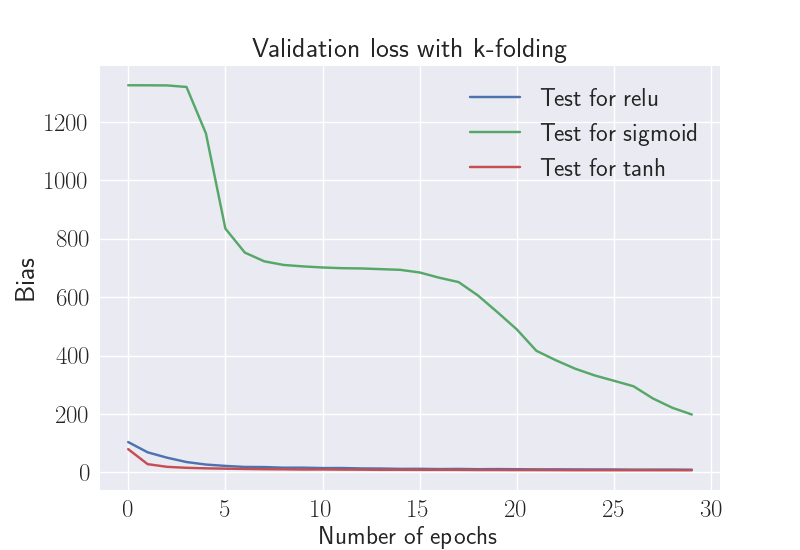
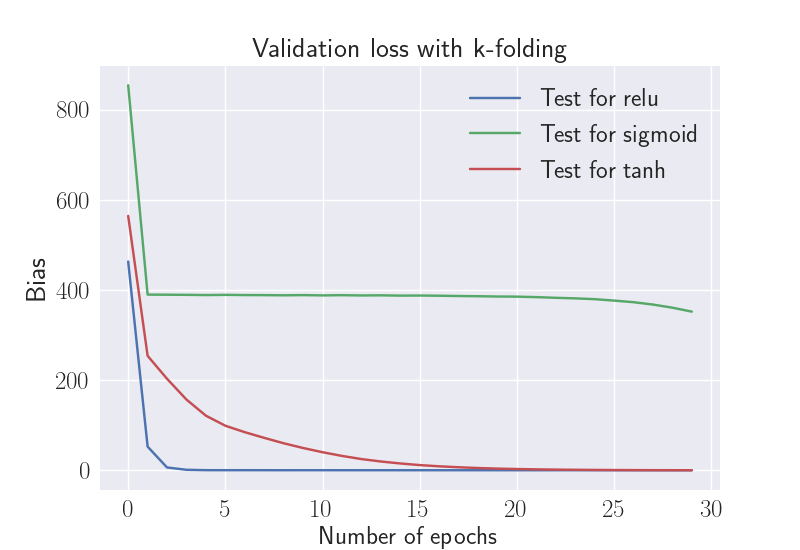
fixed r2-score

diff --git a/Project3/Code/NN_methods.py b/Project3/Code/NN_methods.py
@@ -47,7 +47,7 @@ class NeuralNetwork:
                 N_epochs, verbose=0,
                 validation_data=(self.X_test, self.y_test)
                 )
-        #print('Training completed')
+        print('Training completed')
 
         pred = model.predict(self.X_test)
         loss = fit_.history['loss'] # train loss
@@ -56,7 +56,6 @@ class NeuralNetwork:
         val_accuracy = fit_.history['val_accuracy'] # test accuracy
 
         return pred, np.array(loss), np.array(val_loss), np.array(accuracy), np.array(val_accuracy)
-        #loss, val_loss, accuracy, val_accuracy
 
 
     def kfold(self, inputsize, N_layers, N_neurons, N_epochs, N_folds, batch_size, eta, lmbd, act_func):
@@ -73,6 +72,7 @@ class NeuralNetwork:
         accuracy = []
         val_accuracy = []
         R2_score = []
+        variance = []
 
         fold_no = 1
         for train, test in kfold.split(inputs, targets):
@@ -93,7 +93,7 @@ class NeuralNetwork:
             #Output layer
             model.add(Dense(3, activation=None))
             sgd = optimizers.SGD(learning_rate=eta, momentum=0.9)
-            model.compile(optimizer=sgd, loss='mse', metrics = ['accuracy', r2_score])
+            model.compile(optimizer=sgd, loss='mse', metrics = ['accuracy', r2_score]) #['accuracy', 'variance', r2_score])
             # Fit data to model
             fit_ = model.fit(
                     inputs[train], targets[train], batch_size, N_epochs,
@@ -108,8 +108,10 @@ class NeuralNetwork:
             accuracy.append(fit_.history['accuracy'])
             val_accuracy.append(fit_.history['val_accuracy'])
             R2_score.append(fit_.history['r2_score'])
+            # variance.append(fit_.history['variance'])
+
 
             # Increase fold number
             fold_no = fold_no + 1
         print(f'Training completed for {act_func}')
-        return pred, target_data, np.array(loss), np.array(val_loss), np.array(accuracy), np.array(val_accuracy), np.array(R2_score)
+        return pred, target_data, np.array(loss), np.array(val_loss), np.array(accuracy), np.array(val_accuracy), np.array(R2_score), np.array(variance)

diff --git a/Project3/Code/run_NN.py b/Project3/Code/run_NN.py
@@ -9,9 +9,9 @@ from common import prepare_data
 
 # Prepare some data
 N_samples = 10000 # 10000
-eeg, pos_list = prepare_data(N_samples)
-#eeg = np.load(f'data/eeg_100.npy')
-#pos_list = np.load(f'data/pos_list_100.npy')
+# eeg, pos_list = prepare_data(N_samples)
+eeg = np.load(f'data/eeg_100.npy')
+pos_list = np.load(f'data/pos_list_100.npy')
 pos_list = pos_list.T
 
 # Define initial parameters
@@ -64,9 +64,10 @@ def run_kfold_DNN(act_funcs):
     accuracy_array = np.zeros_like(loss_array)
     val_accuracy_array = np.zeros_like(loss_array)
     R2_score_array = np.zeros_like(loss_array)
+    variance_array = np.zeros_like(loss_array)
 
     for i in range(len(act_funcs)):
-        pred, target_data, loss, val_loss, accuracy, val_accuracy, R2_score = model.kfold(
+        pred, target_data, loss, val_loss, accuracy, val_accuracy, R2_score, variance = model.kfold(
                                                         inputsize, N_layers, N_neurons,
                                                         N_epochs, N_folds, batch_size,
                                                         eta, lmbd, act_funcs[i]
@@ -76,7 +77,7 @@ def run_kfold_DNN(act_funcs):
         accuracy_array[i, :] = np.mean(accuracy, axis=0)
         val_accuracy_array[i, :] = np.mean(val_accuracy, axis=0)
         R2_score_array[i, :] = np.mean(val_accuracy, axis=0)
-
+        # variance_array[i, :] = np.mean(variance, axis=0)
         # print(f"Predictions with k-folding using {act_funcs[i]}:")
         # print("Prediction:")
         # print(pred[-1][0:5][:])

diff --git a/Project3/Code/plot.py b/Project3/Code/plot.py
@@ -19,6 +19,22 @@ def plot_R2(R2, N_epochs, act_funcs):
 
     fig1.savefig(f'../Plots/R2')
 
+# def bias_variance_tradeoff(poly_degrees, MSE, bias, variance, N, title, fname):
+#     poly_degrees_new = np.arange(1, len(poly_degrees), 2)
+#     fig, ax = plt.subplots()
+#     ax.set_title(title, fontsize=20)
+#     ax.set_xticks(poly_degrees_new)
+#     ax.tick_params(axis='both', which='major', labelsize=18)
+#     ax.set_title(f'Test data, {N}x{N} datapoints', fontsize=18)
+#     ax.plot(poly_degrees, MSE[1], label='MSE')
+#     ax.plot(poly_degrees, bias[1], label='Bias')
+#     ax.plot(poly_degrees, variance[1], label='Variance')
+#     ax.set_xlabel('Polynomial Degree', fontsize=18)
+#     ax.tick_params(axis='both', which='major', labelsize=18)
+#     ax.legend(fontsize=18)
+#     fig.savefig(fname)
+#     plt.close(fig)
+
 
 def plot_bias_accuracy(loss, val_loss, accuracy, val_accuracy, N_epochs, act_funcs):
 
